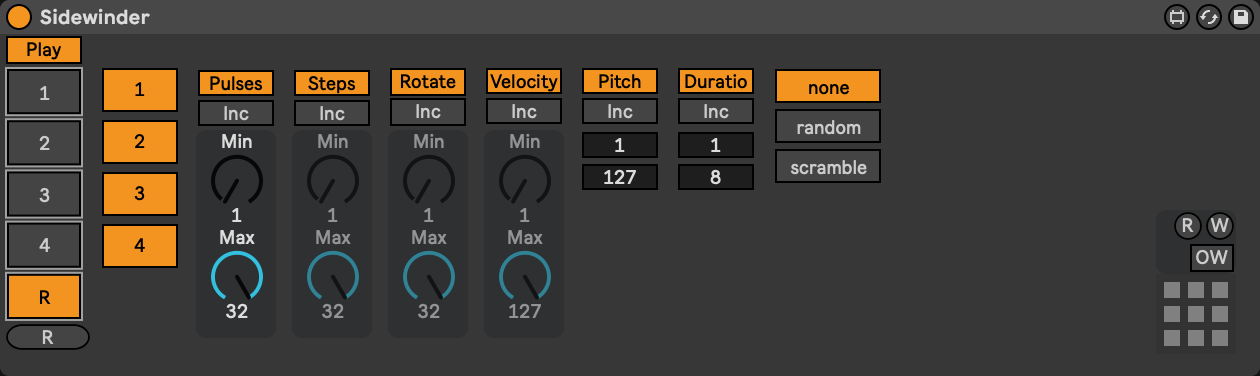
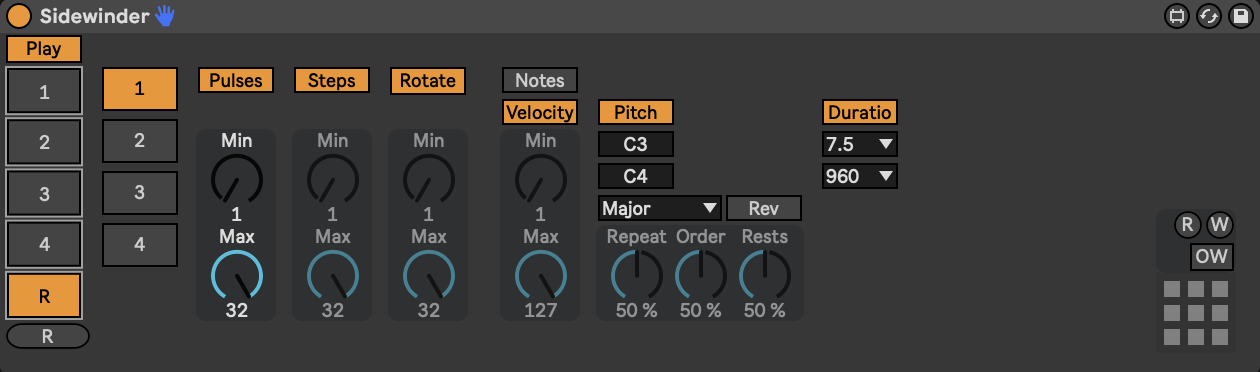
Update readme (#24)
* Update randomize image

* Update README

* Update README

* Update randomize description

* Add word

diff --git a/README.md b/README.md
@@ -49,13 +49,23 @@ When **Auto** is on, making a change automatically updates the steps. When **Aut
 
 ![Randomize](Randomize.png)
 
-* **1-4 Buttons:** Which tracks to randomize
-* **Pulses, Steps, Rotate, Velocity, Pitch:** Whether to randomize that parameter
-* **Inc:** Increment (or decrement) the value by the random amount instead of replacing it
-* **Min:** Minimum random amount
-* **Max:** Maximum random amount
-* For Pitch and Duration, the top number is the minimum and the bottom number is the maximum
-* **None, Random, Scramble:** Random randomizes all parameters, this overrides all other options. Scramble randomizes the note order.
+Randomize generates a random sequence. The **Notes** setting is significant, with that setting turned off, a sequence that plays a single note will be generated. If it's turned on, a sequence playing different notes from a scale will be generated.
+
+- **1-4 Buttons:** Which tracks to randomize
+- **Pulses, Steps, Rotate:** Whether to randomize those parameters
+- **Min:** Minimum random amount
+- **Max:** Maximum random amount
+- **Notes**: Whether to randomize individual notes. If the notes is off, then randomize for Velocity, Pitch, and Duration will randomize changing those values on the individual track settings. If notes is on, then randomize for those values will create randomize the individual notes (and the track settings will be used for default values, e.g., for off notes with a velocity of 0).
+- For Duration, the top number and bottom numbers are the minimum and maximum duration in ticks
+- For Pitch, the top number and bottom pitches are the minimum and maximum pitches
+
+#### Pitch Note Controls
+
+With the **Notes** is off, only the minimum and maximum pitches are used. If **Notes** is on, Sidewinder generates a note sequence and provides additional parameters to randomize the sequence. If all the additional randomization parameters are off, the sequence generated will simply generate notes in the selected scale in order.
+
+- **Scale:** The scale the sequence will be generated in
+- **Rev:** Reverse the order of the generated sequence (from ascending to descending)
+- **Repeat, Order, Rests:** The percentage chance that each note will be affected when generating the note sequence. Repeat is the percentage chance each note will be repeated, Order is the percentage change each note will be have it's position in the sequence randomized, and Rests is the percentage chance the note will be replaced by a rest.
 
 ## Installation
 
